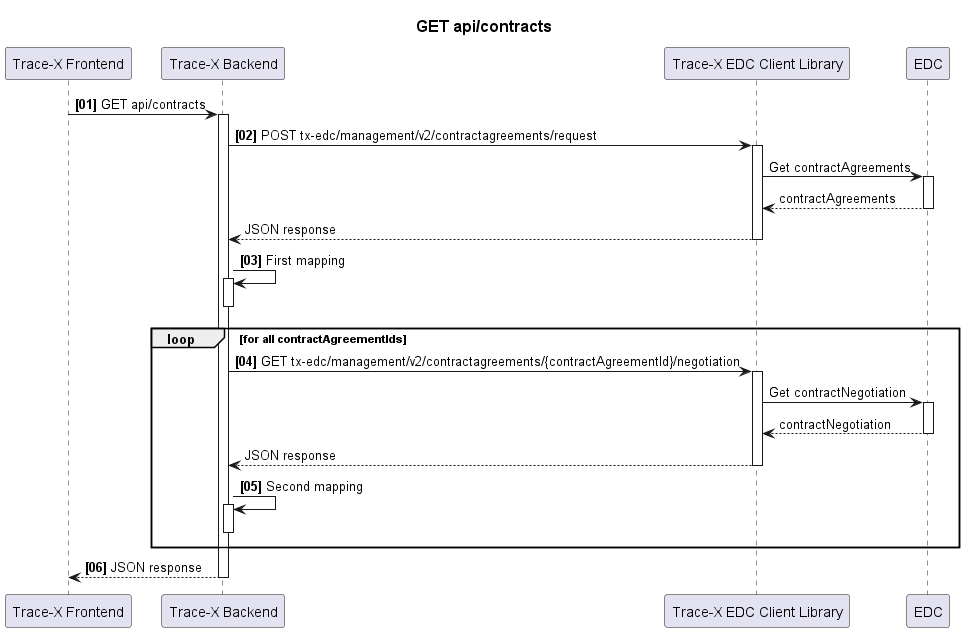
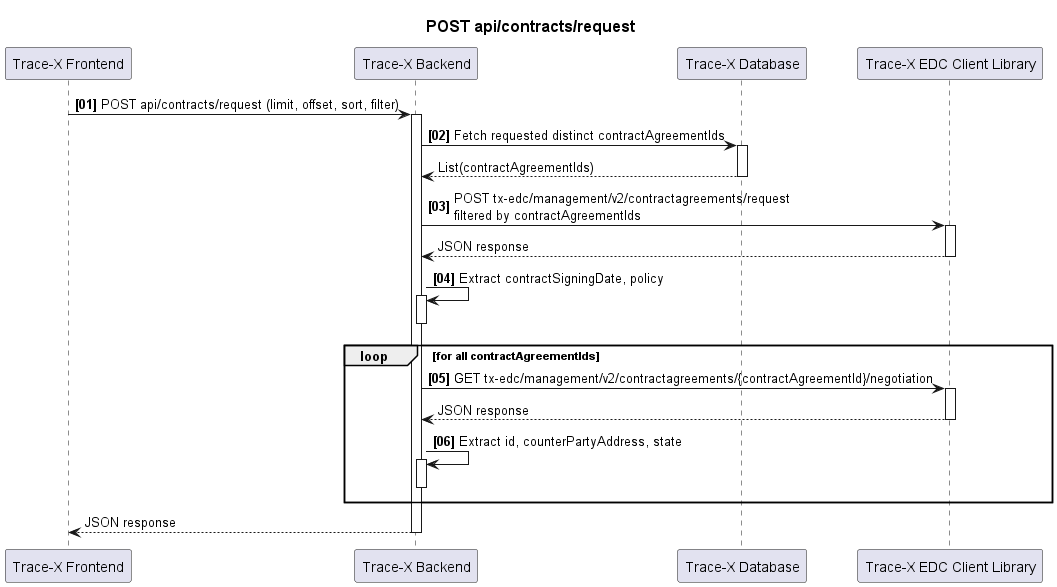
chore(concept): #638 rework concept

diff --git a/docs/concept/#638-contractagreement-admin-view/#638-contractagreement-admin-view.md b/docs/concept/#638-contractagreement-admin-view/#638-contractagreement-admin-view.md
@@ -39,9 +39,8 @@ The assets behind the contracts are not available for external auditors. Further
 * [ ] The attributes contract ID, Counterparty address, creation date, state and policy are provided
 * [ ] The processed data of the management API can be accessed through a new API: GET api/contracts and GET api/contracts/{tx-assetId}
 * [ ] The new API is documented
-* [ ] GET api/contracts makes 2 requests to get attributes: POST tx-edc/management/v2/contractagreements/request & GET tx-edc/management/v2/contractagreements/{contractAgreementId}/negotiation
-* [ ] GET api/contracts/{tx-assetId} fetches contractAgreementIds from the Trace-X database (they are regularly stored there by an IRS cron job)
-* [ ] GET api/contracts makes 2 requests to get attributes: POST tx-edc/management/v2/contractagreements/{contractAgreementId} & GET tx-edc/management/v2/contractagreements/{contractAgreementId}/negotiation
+* [ ] POST api/contracts/request makes 2 requests to get attributes: POST tx-edc/management/v2/contractagreements/request & GET tx-edc/management/v2/contractagreements/{contractAgreementId}/negotiation
+* [ ] GET api/contracts makes 2 requests to get attributes: GET tx-edc/management/v2/contractagreements/{contractAgreementId} & GET tx-edc/management/v2/contractagreements/{contractAgreementId}/negotiation
 * [ ] Payload of the requests are mapped into a domain model
 * [ ] Payload can be shown in the frontend
 
@@ -54,9 +53,6 @@ The assets behind the contracts are not available for external auditors. Further
 
 # Out of scope
 * Attribute EndDate: At the moment, the end date can't be taken from the edc, because the edc doesn't manage usage policies.
-* Showing relations between assets and contract agreements in the frontend. In the backend, the request GET api/contracts/{tx-assetId} shall be implemented as preparation of this use case
-* If dynamic calls to the management API are not working anymore, we need to consider a new data model. In that case a cron job can be implemented, that regularly fetches all contractAgreements and saves them to the database. Then there's no need to trigger requests every time the frontend is accessed.
-  * Alternatively, there is a possibility to reduce the amount of calls needed by only showing the contractAgreementId in the frontend in an overview (no additional calls need to be made since that information is already stored in the database by the IRS cron job).  Then the rest of the information can be shown in a separate detail view. Only then the API calls will be made to fetch the detailed data.
 
 # Assumptions
 ContractAgreementIds are stored in relation to the assets in the Trace-X database. These are regularly updated by an IRS cron job.
@@ -129,23 +125,40 @@ User Journey Story:
 https://miro.com/app/board/uXjVOGBahIA=/?moveToWidget=3458764573051687012&cot=14
 ![contractagreement-admin-view-frontend.png](contractagreement-admin-view-frontend.png)
 
-Policies are shown in plain json
+Contract data is called from the backend on a page-by-page basis.
+
+Policies are shown in plain json.
 
 ## Backend concept
 Backend API of TraceX which provides the stored contract information for the frontend:
 
-GET api/contracts (all contractagreements for all assets)
+POST api/contracts/request
+(paginated, sortable, filterable)
 
-GET api/contracts/{tx-assetId} (contractagreements for asset with tx-assetId)
+GET api/contracts/{tx-assetId}
 
-### GET api/contracts sequence flow
+### POST api/contracts/request sequence flow
+![get-all-contracts-sequenceflow.png](get-all-contracts-sequenceflow.png)
 
-#### 1. Frontend calls backend API to get contracts
+#### 1. Frontend calls backend API to get contracts (paginated, sortable, filterable)
 
-#### 2. Get contractAgreementId from POST tx-edc/management/v2/contractagreements/request
+#### 2. Fetch contractAgreementIds from database
 
+#### 3. Get contractAgreementId from POST tx-edc/management/v2/contractagreements/request
 Request:
 POST /management/v2/contractagreements/request
+
+Request body sample:
+```json
+{
+    "filterExpression": {
+        "@type": "Criterion",
+        "operandLeft": "@id",
+        "operator": "IN",
+        "operatorRight": [contractAgreementId[0],contractAgeementId[1],...]
+    }
+}
+```
 
 Response:
 
@@ -203,7 +216,7 @@ Response Sample:
 ]
 ```
 
-#### 3. Map payload of first request response into domain model
+#### 4. Extract contractSigningDate, policy
 
 | Domain model         | Response parameter      | Example                                                                                                                                                      |
 |----------------------|-------------------------|--------------------------------------------------------------------------------------------------------------------------------------------------------------|
@@ -215,7 +228,7 @@ Response Sample:
 | **Policy**           | edc:policy              | "@id": "68d90fc3-5d8f-4cb5-b9db-ca72c82705e5","@type": "odrl:Set","odrl:permission": {"odrl:target": "registry-asset","odrl:action": {"odrl:type": "USE" ... |
 
 
-#### 4. GET /management/v2/contractagreements/{contractAgreementId}/negotiation
+#### 5. GET /management/v2/contractagreements/{contractAgreementId}/negotiation
 
 Request:
 GET /management/v2/contractagreements/{contractAgreementId}/negotiation
@@ -256,7 +269,7 @@ Response Sample:
 }
 ```
 
-#### 5. Map payload of second request response into domain model:
+#### 6. Extract id, counterPartyAddress, state
 
 | Domain model             | Response parameter      | Example                                                                                                                                                      |
 |--------------------------|-------------------------|--------------------------------------------------------------------------------------------------------------------------------------------------------------|
@@ -267,7 +280,7 @@ Response Sample:
 | **State**                | edc:state               | FINALIZED                                                                                                                                                    |
 | Policy                   | edc:policy              | "@id": "68d90fc3-5d8f-4cb5-b9db-ca72c82705e5","@type": "odrl:Set","odrl:permission": {"odrl:target": "registry-asset","odrl:action": {"odrl:type": "USE" ... |
 
-#### 6. Handle pagination in FE (if necessary repeat calls)
+#### 7. Handle pagination in FE (if necessary repeat calls)
 
 ___
 
@@ -275,13 +288,15 @@ ___
 
 ![get-contract-sequenceflow.png](get-contract-sequenceflow.png)
 
-#### 1. Cron job fetches Trace-X assets from IRS. They are saved in the Trace-X database.
+#### 1. Frontend calls backend API to get contract
+Input: tx-assetId
 
-#### 2. Frontend calls backend API to get contract (GET api/contracts/{tx-assetId})
+#### 2. Fetch contractAgreementIds from database
+Input: tx-assetId
 
-#### 3. Backend gets contractAgreementId for requested Trace-X Asset from the database
+Output: contractAgreementId
 
-#### 4. GET /management/v2/contractagreements/{ContractAgreementId}
+#### 3. GET /management/v2/contractagreements/{ContractAgreementId}
 
 Request:
 GET /management/v2/contractagreements/{ContractAgreementId}
@@ -342,7 +357,7 @@ Response Sample:
 ]
 ```
 
-#### 5. Map payload of first request response into domain model:
+#### 4. Extract contractSigningDate, policy
 
 | Domain model         | Response parameter      | Example                                                                                                                                                      |
 |----------------------|-------------------------|--------------------------------------------------------------------------------------------------------------------------------------------------------------|
@@ -354,7 +369,7 @@ Response Sample:
 | **Policy**           | edc:policy              | "@id": "68d90fc3-5d8f-4cb5-b9db-ca72c82705e5","@type": "odrl:Set","odrl:permission": {"odrl:target": "registry-asset","odrl:action": {"odrl:type": "USE" ... |
 
 
-#### 6. GET /management/v2/contractagreements/{ContractAgreementId}/negotiation
+#### 5. GET /management/v2/contractagreements/{ContractAgreementId}/negotiation
 
 Request:
 GET /management/v2/contractagreements/{ContractAgreementId}/negotiation
@@ -395,7 +410,7 @@ Response Sample:
 }
 ```
 
-#### 7. Map payload of second request response into domain model:
+#### 6. Extract id, counterPartyAddress, state
 
 | Domain model             | Response parameter      | Example                                                                                                                                                      |
 |--------------------------|-------------------------|--------------------------------------------------------------------------------------------------------------------------------------------------------------|
